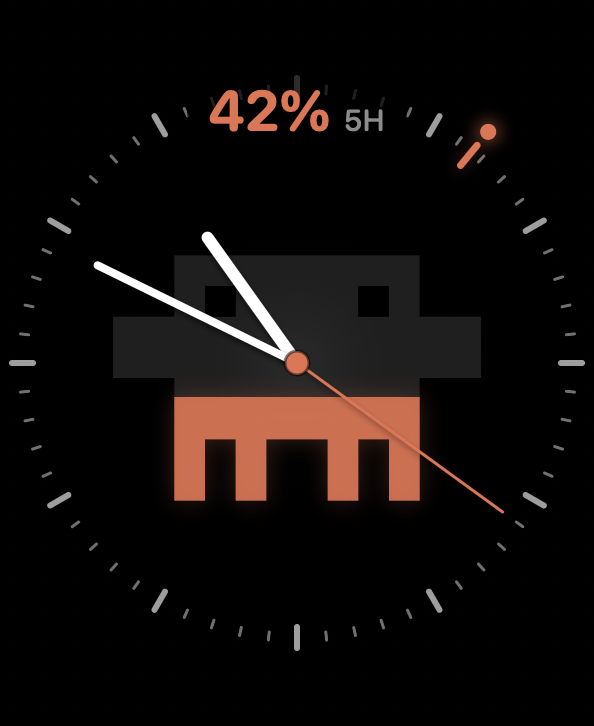
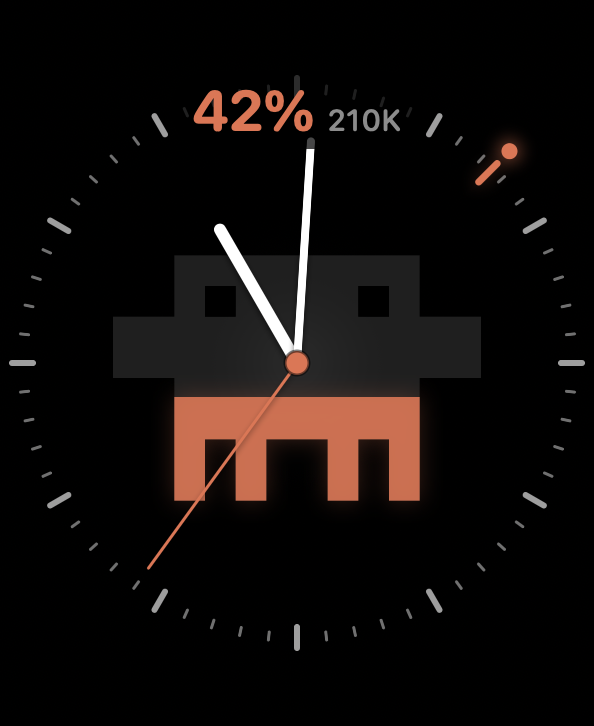
Refine five-hour token mock
Restore token-equivalent remaining counts and initialize the mock window mid-session with 340K of 500K remaining.

Copilot-Session: a1662503-018e-45a5-9f2f-94f463106b09

diff --git a/ClaudeCreditsWatch/ContentView.swift b/ClaudeCreditsWatch/ContentView.swift
@@ -19,6 +19,7 @@ enum FaceStyle: String, CaseIterable, Identifiable {
 struct ContentView: View {
     @AppStorage("remainingPercent") private var remainingPercent = 68.0
     @AppStorage("mockResetAt") private var mockResetAt = 0.0
+    @AppStorage("mockScenarioVersion") private var mockScenarioVersion = 0
     @AppStorage("selectedFace") private var selectedFaceRawValue = FaceStyle.fiveAliens.rawValue
     @State private var isShowingControls = false
     @FocusState private var receivesCrownInput: Bool
@@ -68,8 +69,12 @@ struct ContentView: View {
 #endif
         .onAppear {
             remainingPercent = MockCreditMath.clampedPercent(remainingPercent)
-            if resetDate <= .now {
-                mockResetAt = Date.now.addingTimeInterval(5 * 60 * 60).timeIntervalSince1970
+            if mockScenarioVersion < 1 {
+                remainingPercent = 68
+                mockResetAt = Date.now.addingTimeInterval((2 * 60 + 43) * 60).timeIntervalSince1970
+                mockScenarioVersion = 1
+            } else if resetDate <= .now {
+                mockResetAt = Date.now.addingTimeInterval((2 * 60 + 43) * 60).timeIntervalSince1970
             }
             receivesCrownInput = true
         }

diff --git a/ClaudeCreditsWatch/MockCreditMath.swift b/ClaudeCreditsWatch/MockCreditMath.swift
@@ -1,14 +1,14 @@
 import Foundation
 
 enum MockCreditMath {
-    static let monthlyTokenLimit = 1_000_000
+    static let fiveHourTokenLimit = 500_000
 
     static func clampedPercent(_ percent: Double) -> Double {
         min(max(percent, 0), 100)
     }
 
     static func remainingTokens(for percent: Double) -> Int {
-        Int((clampedPercent(percent) / 100 * Double(monthlyTokenLimit)).rounded())
+        Int((clampedPercent(percent) / 100 * Double(fiveHourTokenLimit)).rounded())
     }
 
     static func fillForAlien(at index: Int, percent: Double) -> Double {

diff --git a/ClaudeCreditsWatch/AnalogDrainFaceView.swift b/ClaudeCreditsWatch/AnalogDrainFaceView.swift
@@ -78,7 +78,7 @@ struct AnalogDrainFaceView: View {
                                 .font(.system(size: diameter * 0.095, weight: .bold, design: .rounded))
                                 .foregroundStyle(Color.creditOrange)
 
-                            Text("5H")
+                            Text(MockCreditMath.compactTokenText(for: remainingPercent))
                                 .font(.system(size: diameter * 0.05, weight: .medium, design: .rounded))
                                 .foregroundStyle(Color.white.opacity(0.55))
                         }

diff --git a/tools/verify_math.swift b/tools/verify_math.swift
@@ -3,9 +3,9 @@ import Foundation
 @main
 struct MathVerifier {
     static func main() {
-        precondition(MockCreditMath.remainingTokens(for: 80) == 800_000)
+        precondition(MockCreditMath.remainingTokens(for: 80) == 400_000)
         precondition(MockCreditMath.remainingTokens(for: -10) == 0)
-        precondition(MockCreditMath.remainingTokens(for: 120) == 1_000_000)
+        precondition(MockCreditMath.remainingTokens(for: 120) == 500_000)
 
         let thirtyPercent = (0..<5).map {
             MockCreditMath.fillForAlien(at: $0, percent: 30)

diff --git a/ClaudeCreditsWatch/FiveAliensFaceView.swift b/ClaudeCreditsWatch/FiveAliensFaceView.swift
@@ -40,7 +40,7 @@ struct FiveAliensFaceView: View {
                                 .monospacedDigit()
                                 .foregroundStyle(Color.creditOrange)
 
-                            Text("5H LEFT")
+                            Text(MockCreditMath.compactTokenText(for: remainingPercent))
                                 .font(.system(size: geometry.size.height * 0.043, weight: .medium, design: .rounded))
                                 .foregroundStyle(Color.white.opacity(0.52))
                         }

diff --git a/ClaudeCreditsWatch/MockControlsView.swift b/ClaudeCreditsWatch/MockControlsView.swift
@@ -34,7 +34,7 @@ struct MockControlsView: View {
                             .font(.title2.bold())
                             .foregroundStyle(Color.creditOrange)
 
-                        Text("remaining")
+                        Text("\(MockCreditMath.compactTokenText(for: remainingPercent)) tokens remaining")
                             .font(.footnote)
                             .foregroundStyle(.secondary)
 

diff --git a/README.md b/README.md
@@ -44,9 +44,10 @@ xcodegen generate
 - Tap the digital time to switch between the clock and reset countdown.
 - Long-press anywhere to open controls with a slider and preset values.
 
-The controls also provide one-, three-, and five-hour reset presets. The
-percentage and reset timestamp are the seams for replacing local values with
-Claude Code's official five-hour rate-limit snapshot later.
+The mock models a 500K token-equivalent five-hour allowance. It starts at 68%
+(340K remaining) with 2 hours 43 minutes until reset, so the default resembles
+an active session rather than a fresh window. The controls also provide one-,
+three-, and five-hour reset presets.
 
 ## Branding
 
